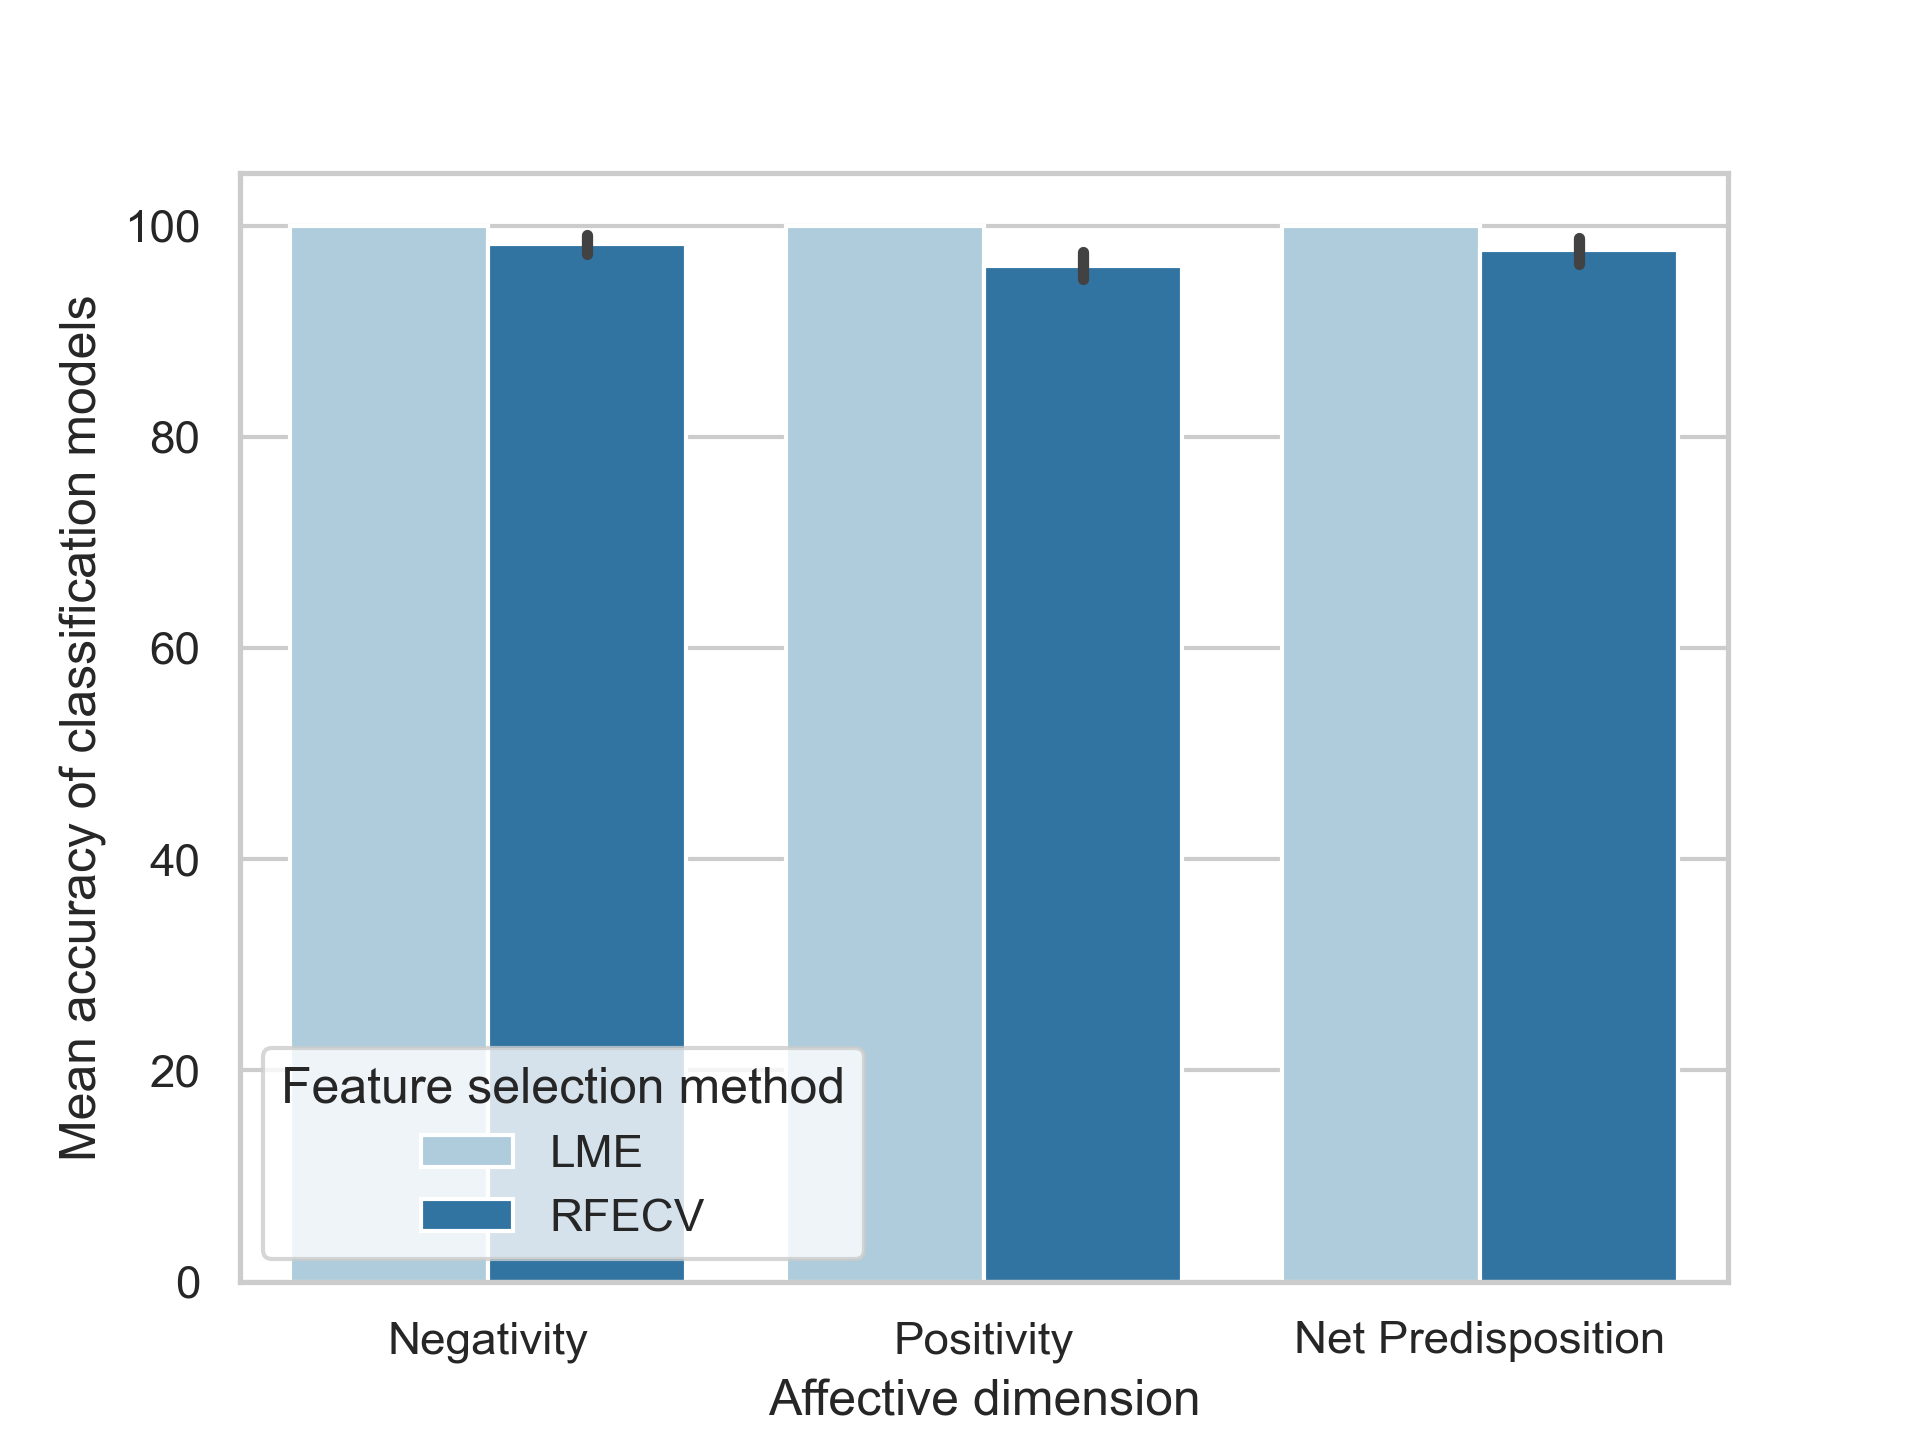
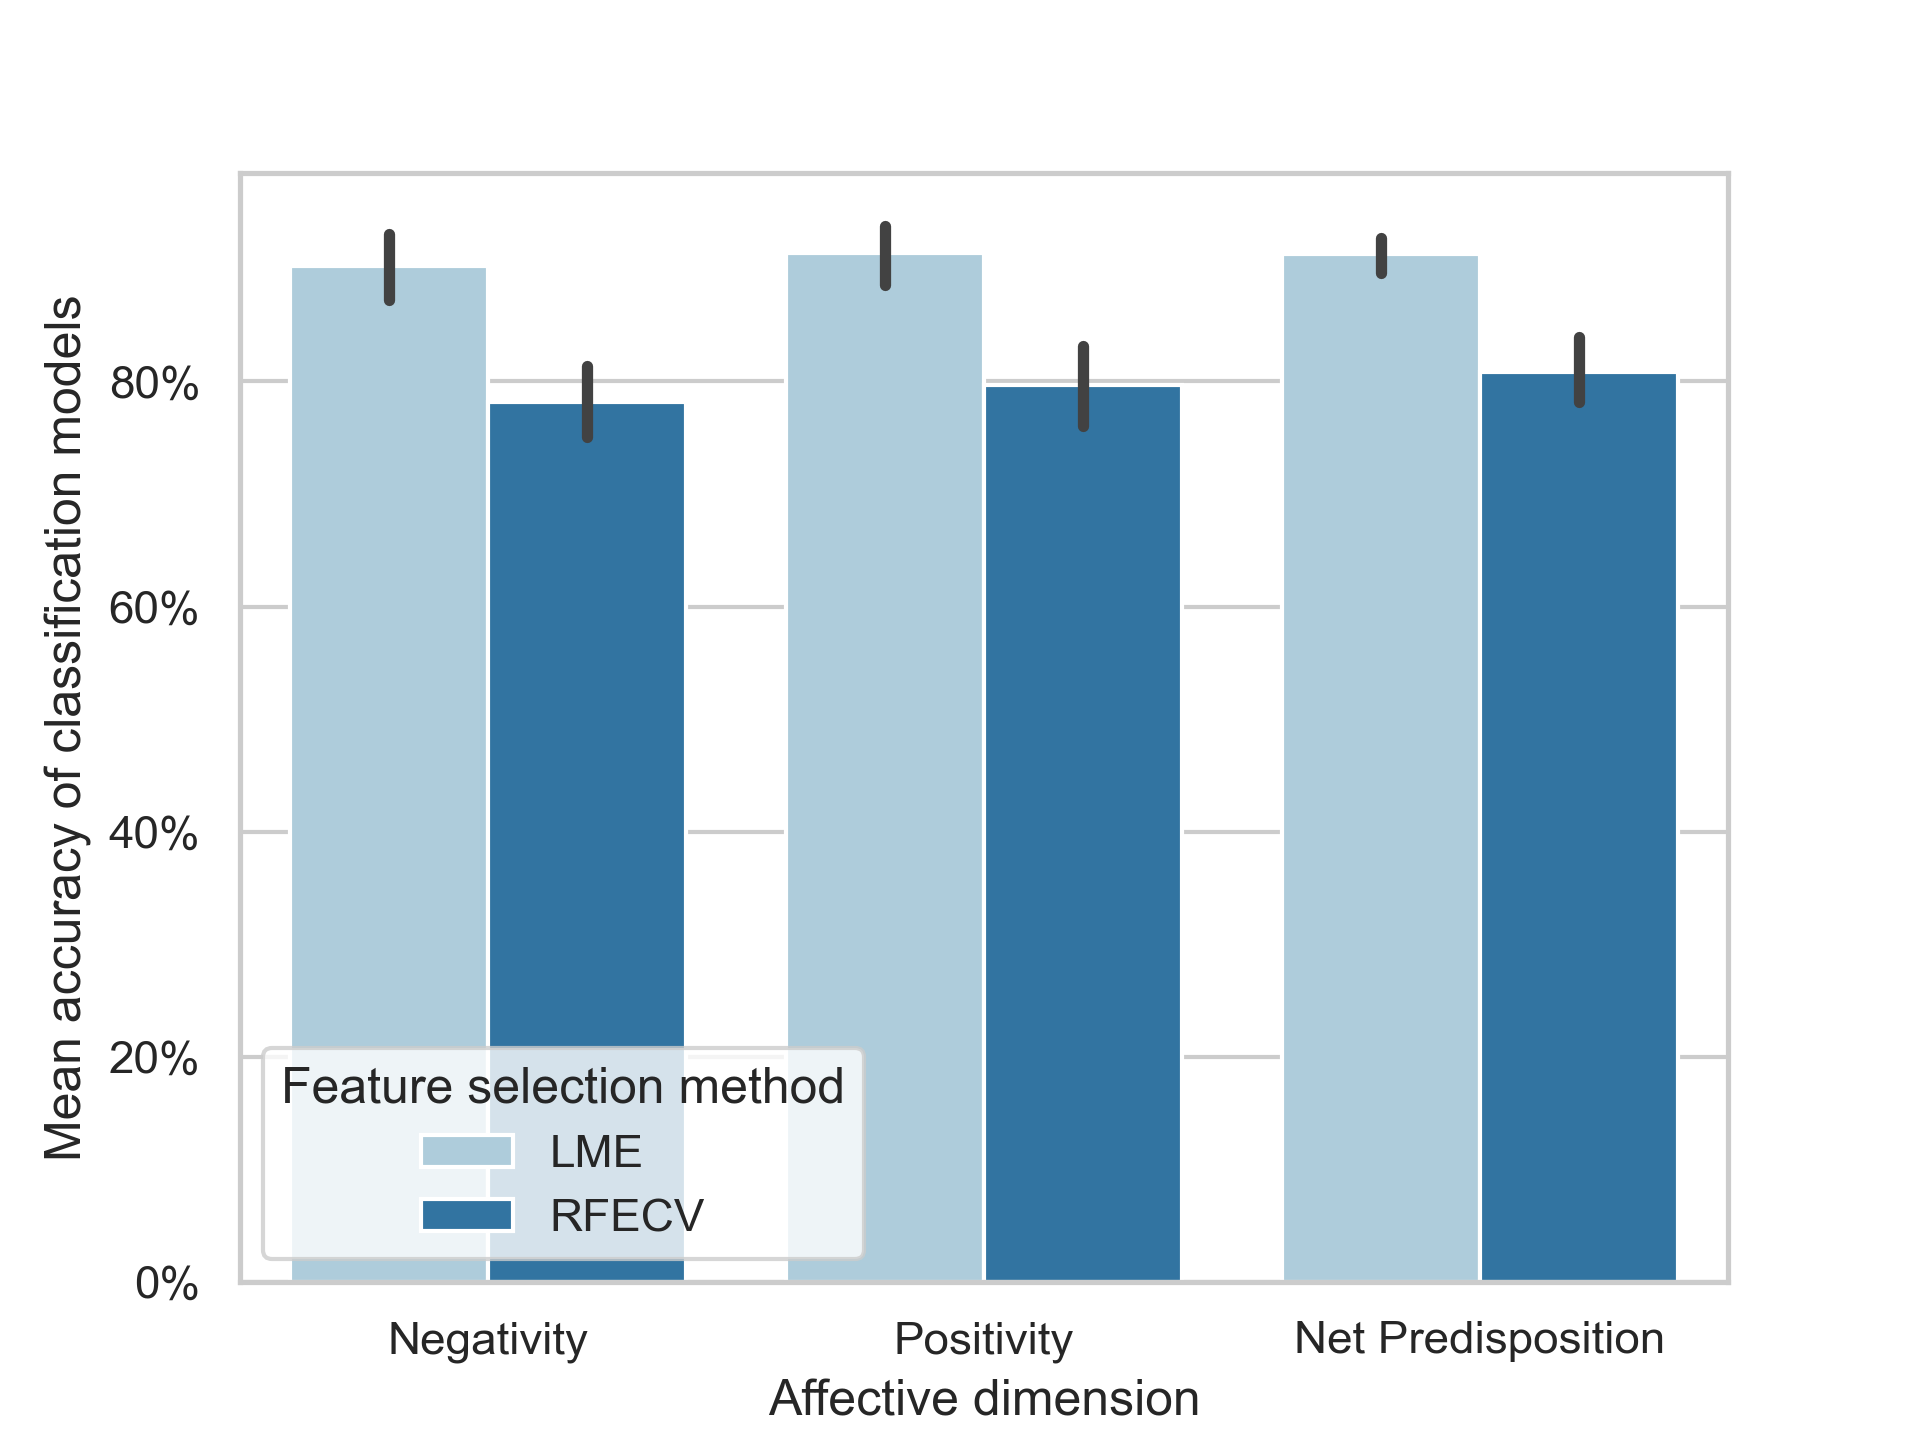
cross validate scores

diff --git a/src/compare_methods.py b/src/compare_methods.py
@@ -12,7 +12,7 @@ import seaborn as sns
 from scipy import stats
 pd.options.mode.chained_assignment = None  # default='warn'
 
-from src.helper import conduct_iqr
+from src.helper import conduct_iqr, strings2means
 from src.settings import d, dimensions, feature_selection_approaches, participants_codes
 
 
@@ -26,6 +26,12 @@ def remove_outliers():
             participant_metrics = participant_metrics.rename(columns = {'Unnamed: 0': 'random_state', 'Unnamed: 1': 'metric'})
             participant_metrics['participant'] = p
             participant_metrics['approach'] = fsa
+
+            for dim in dimensions:
+                dim_metrics = participant_metrics[dim]
+                means_dimension = dim_metrics.apply(lambda row: strings2means(row[1:-1]))
+                participant_metrics[dim] = means_dimension
+
             all_participant_metrics.append(participant_metrics)
 
     all_metrics_df = pd.concat(all_participant_metrics)
@@ -78,22 +84,32 @@ def compare_methods():
     main_effect_approach = pg.anova(dv='mean_accuracy', between='approach', data=no_outliers, detailed=True)
     print(main_effect_approach)
     # Paired samples t-test
-
     nested_dict = lambda: defaultdict(nested_dict)
-    ttest_dict = nested_dict()
+    posthoc_results = nested_dict()
     for dim in dimensions:
         dim_data = no_outliers.loc[no_outliers.dimension == dim]
         dim_rfecv = dim_data.loc[dim_data.approach == 'RFECV'][['mean_accuracy']].values.flatten()
         dim_lme = dim_data.loc[dim_data.approach == 'LME'][['mean_accuracy']].values.flatten()
         res_dim_ttest = ttest(dim_rfecv, dim_lme, paired=True).round(3)
-        ttest_dict[dim]['ttest_results'] = res_dim_ttest
-        ttest_dict[dim]['means']['lme'] = dim_lme.mean().round(3)
-        ttest_dict[dim]['means']['rfecv'] = dim_rfecv.mean().round(3)
-        ttest_dict[dim]['std']['lme'] = dim_lme.std().round(3)
-        ttest_dict[dim]['std']['rfecv'] = dim_rfecv.std().round(3)
+        posthoc_results[dim]['ttest_results'] = res_dim_ttest.copy()
+        posthoc_results[dim]['mean_lme'] = dim_lme.mean().round(3)
+        posthoc_results[dim]['mean_rfecv'] = dim_rfecv.mean().round(3)
+        posthoc_results[dim]['std_lme'] = dim_lme.std().round(3)
+        posthoc_results[dim]['std_rfecv'] = dim_rfecv.std().round(3)
 
     print('Results of pair-waise t-test (posthoc analysis):')
-    print(ttest_dict)
+    for dim in dimensions:
+        print('Results for dimension: ' + dim)
+        print('T-test:')
+        print(posthoc_results[dim]['ttest_results'])
+        print('Mean LME: ')
+        print(posthoc_results[dim]['mean_lme'])
+        print('Mean RFECV: ')
+        print(posthoc_results[dim]['mean_rfecv'])
+        print('STD LME: ')
+        print(posthoc_results[dim]['std_lme'])
+        print('STD RFECV: ')
+        print(posthoc_results[dim]['std_rfecv'])
 
     # Plot
     sns.set_palette("Paired")
@@ -103,8 +119,9 @@ def compare_methods():
     g.set_xticklabels(['Negativity', 'Positivity', 'Net Predisposition'])
     g.legend(title='Feature selection method')
     sns.move_legend(g, "lower left")
+    g.yaxis.set_major_formatter('{x:1.0f}%')
     plt.savefig(d + '/reports/figures/anova_results.png', dpi=300)
-    # plt.show()
+    plt.show()
 
 
 if __name__ == "__main__":

diff --git a/src/build_classifiers.py b/src/build_classifiers.py
@@ -7,6 +7,7 @@ from collections import defaultdict
 import pandas as pd
 from sklearn import metrics
 from sklearn.ensemble import RandomForestClassifier
+from sklearn.model_selection import cross_val_score
 from sklearn.model_selection import train_test_split
 
 from src.feature_selection.select_features_rfecv import select_features_rfecv
@@ -29,24 +30,29 @@ def get_metrics(approach, p, rs):
         labels = participant_data[dim]['labels']
 
         # Split dataset into training set and test set
-        X_train, X_test, y_train, y_test = train_test_split(features, labels, train_size=0.3, random_state=rs)
-
+        # X_train, X_test, y_train, y_test = train_test_split(features, labels, train_size=0.3, random_state=classifier_rs)
         # Initialize Random Forest Classifier
         clf = RandomForestClassifier()
+
         # Train the model
-        clf.fit(X_train, y_train)
+        # clf.fit(X_train, y_train)
         # Predict the response for test dataset
-        y_pred = clf.predict(X_test)
+        # y_pred = clf.predict(X_test)
+        # accuracy = metrics.accuracy_score(y_test, y_pred)
+        # precision = metrics.precision_score(y_test, y_pred)
+        # recall = metrics.recall_score(y_test, y_pred)
+        # f1_score = metrics.f1_score(y_test, y_pred)
 
-        accuracy = metrics.accuracy_score(y_test, y_pred)
-        precision = metrics.precision_score(y_test, y_pred)
-        recall = metrics.recall_score(y_test, y_pred)
-        f1_score = metrics.f1_score(y_test, y_pred)
+        # Calculate cross validated scores
+        accuracy_cv = cross_val_score(clf, features, labels, scoring='accuracy', cv=12)
+        precision_cv = cross_val_score(clf, features, labels, scoring='precision', cv=12)
+        recall_cv = cross_val_score(clf, features, labels, scoring='recall', cv=12)
+        f1_score_cv = cross_val_score(clf, features, labels, scoring='f1', cv=12)
 
-        participant_metrics[dim]['accuracy'] = accuracy
-        participant_metrics[dim]['precision'] = precision
-        participant_metrics[dim]['recall'] = recall
-        participant_metrics[dim]['f1_score'] = f1_score
+        participant_metrics[dim]['accuracy'] = accuracy_cv
+        participant_metrics[dim]['precision'] = precision_cv
+        participant_metrics[dim]['recall'] = recall_cv
+        participant_metrics[dim]['f1_score'] = f1_score_cv
 
     return participant_metrics
 

diff --git a/main.py b/main.py
@@ -3,28 +3,28 @@ Author: Andres Pinilla Palacios
 Institution: Quality and Usability Lab, TU Berlin & UTS Games Studio, University of Technology Sydney
 """
 
-from src.analyse_features import analyse_features
-from src.build_classifiers import build_classifiers
+# from src.analyse_features import analyse_features
+# from src.build_classifiers import build_classifiers
 from src.compare_methods import compare_methods
-from src.extract_features import extract_features
-from src.lme_structure import lme_structure
-from src.participants_age import participants_age
-from src.random_indices import random_indices
-from src.settings import participants_codes
+# from src.extract_features import extract_features
+# from src.lme_structure import lme_structure
+# from src.participants_age import participants_age
+# from src.random_indices import random_indices
+# from src.settings import participants_codes
 
 
 def main():
 
-    for p in participants_codes:
-        random_indices(p)
-        extract_features(p)
-        lme_structure(p)
-        analyse_features(p)
-        build_classifiers(p)
+    # for p in participants_codes:
+        # random_indices(p)
+        # extract_features(p)
+        # lme_structure(p)
+        # analyse_features(p)
+        # build_classifiers(p)
 
-    # # Compare accuracy of classifiers built with features selected using each feature selection method.
+    # Compare accuracy of classifiers built with features selected using each feature selection method.
     compare_methods()
-    # # Calculate participants' age for reporting in manuscript.
+    # Calculate participants' age for reporting in manuscript.
     participants_age()
 
 

diff --git a/src/helper.py b/src/helper.py
@@ -285,6 +285,14 @@ def start_idx(data):
     return start_idx
 
 
+def strings2means(row):
+    numbers = row.split()
+    floats = [float(number) for number in numbers]
+    array = np.array(floats)
+    mean = array.mean()
+    return mean
+
+
 def subset_trials_ml(p, selected_features, random_state):
     # Which trials will be used for training and testing the classification models?
     # These trials should be different from the trials that were used for the RFECV analysis
